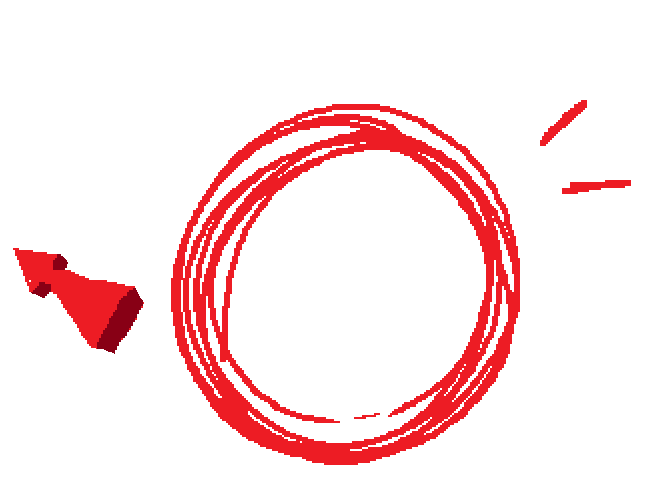
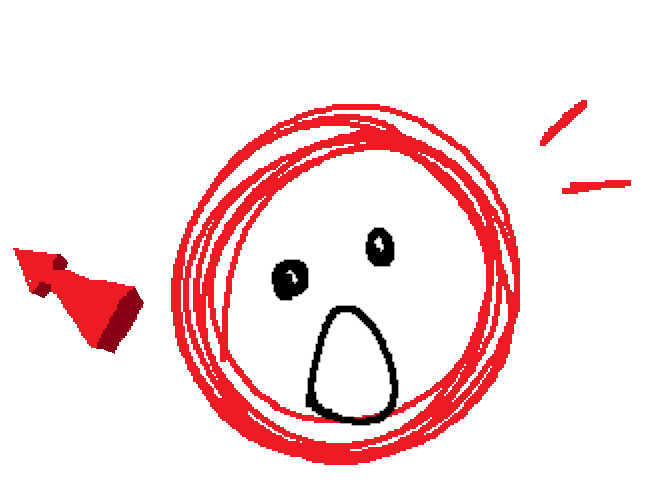
tweaks

Changed region(s): [[0.463, 0.5988, 0.6173, 0.8683], [0.4012, 0.509, 0.4938, 0.5988], [0.5556, 0.4491, 0.6173, 0.5389]]

diff --git a/bluemarble/index.html b/bluemarble/index.html
@@ -14,7 +14,7 @@
 
   <site-header></site-header>
 
-  <main class="wrap">
+  <main class="wrap"><br>
 
     <span class="eyebrow"><a href="../residents/">← All characters</a></span>
 

diff --git a/lp/index.html b/lp/index.html
@@ -14,7 +14,7 @@
 
   <site-header></site-header>
 
-  <main class="wrap">
+  <main class="wrap"><br>
 
     <span class="eyebrow"><a href="../residents/">← All characters</a></span>
 
